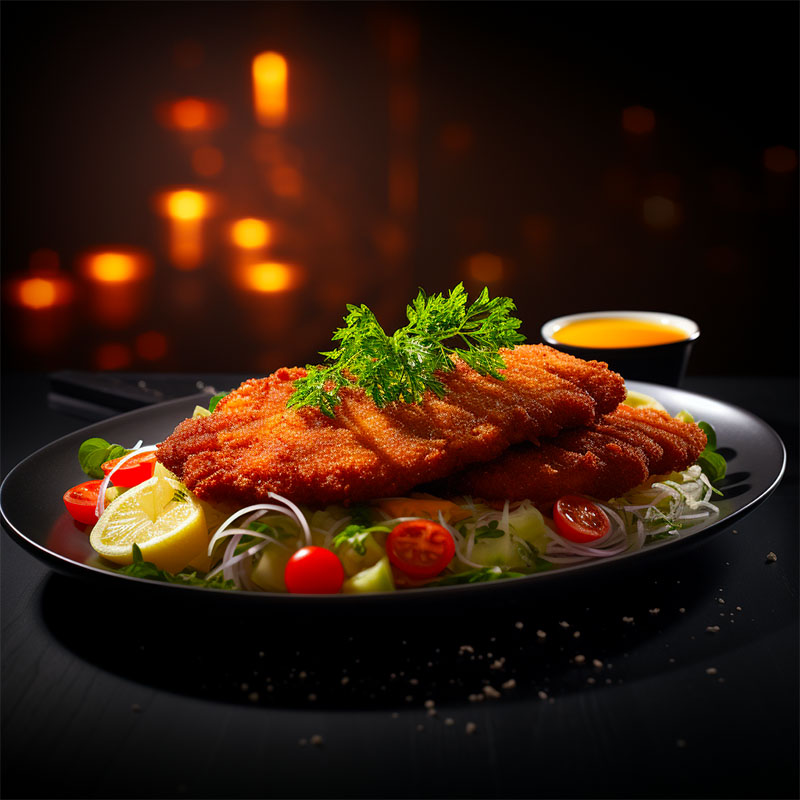
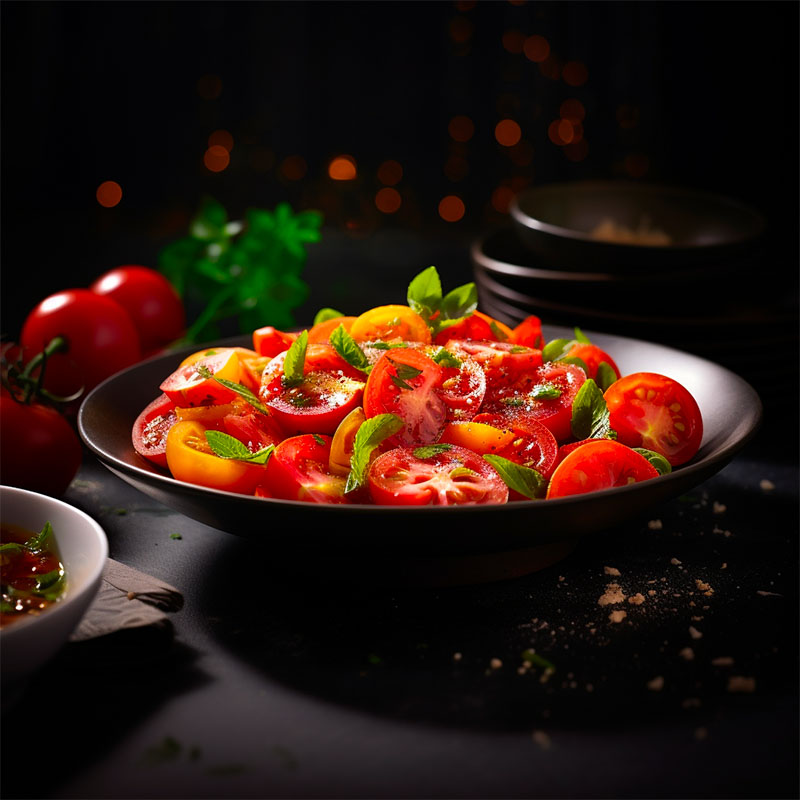
Managing the Form Submission Status with useFormStatus

diff --git a/app/meals/share/page.js b/app/meals/share/page.js
@@ -2,10 +2,13 @@
 import ImagePicker from '@/component/meals/image-picker';
 import classes from './page.module.css';
 import { shareMeal } from '@/lib/actions';
+import MealsFormSubmit from '@/component/meals/meals-form-submit';
 
 export default function ShareMealPage() {
 
+
   return (
+
     <>
       <header className={classes.header}>
         <h1>
@@ -44,7 +47,7 @@ export default function ShareMealPage() {
           </p>
           <ImagePicker label="Meal Image" name="image" />
           <p className={classes.actions}>
-            <button type="submit">Share Meal</button>
+            <MealsFormSubmit />
           </p>
         </form>
       </main>

diff --git a/component/meals/meals-form-submit.js b/component/meals/meals-form-submit.js
@@ -1,0 +1,13 @@
+'use client';
+
+import { useFormStatus } from "react-dom";
+
+export default function MealsFormSubmit() {
+     const { pending } = useFormStatus();
+
+     return (
+        <button disabled={pending}>
+        {pending ? 'Submitting...' : 'Share Meal'}
+     </button>
+     )
+}
